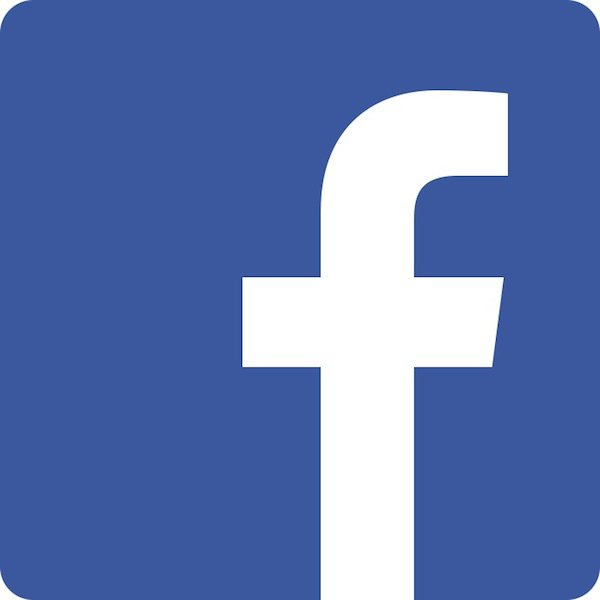
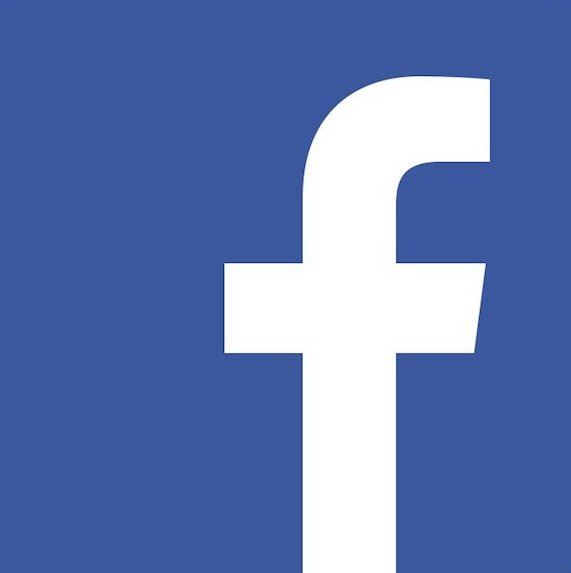
cropped fb img, finished portfolio

diff --git a/index.html b/index.html
@@ -70,19 +70,19 @@
 
 <div id="portfolio" class="container-fluid blue-color">
     <div class="section">
-        <div class="portfolioWrapper centerDiv">
+        <div class="portfolioWrapper centerDivPortfolio">
             <div class="row">
                 <div class="col-3">
-                    <img class="groshLogo" src="img/grosh.png" alt="Grosh">
+                    <a href="http://groshapp.com" target="_blank"><img class="groshLogo" src="img/grosh.png" alt="Grosh"></a>
                 </div>
                 <div class="col-3">
-                    <img class="ahLogo" src="img/ah.jpg" alt="Alarm Handler">
+                    <a href="http://alarmhandler.com" target="_blank"> <img class="ahLogo" src="img/ah.jpg" alt="Alarm Handler"></a>
                 </div>
-                <div class="col-3">
-                    <img class="swetaliaLogo" src="img/grosh.png" alt="Swetalia">
+                <div class="col-6">
+                    <a href="http://www.swetalia.com" target="_blank"> <img class="swetaliaLogo" src="img/swetalia.png" alt="Swetalia"></a>
                 </div>
                 <div class="col-3 moreProjects">
-                    <p class="text-center">More projcets to come!</p>
+                    <p class="text-center moreProjectsText">More projcets to come!</p>
                 </div>
             </div>
         </div>

diff --git a/index.css b/index.css
@@ -57,11 +57,14 @@ div#contact>.section {
 
 .portfolioWrapper{
     background-color: rgb(232,148,43);
-    max-width: 60%;
+    max-width: 70%;
     max-height: 60%;
     border-radius: 25px;
 }
-
+.centerDivPortfolio{
+    margin-top: 10%;
+    margin-left: 15%;
+}
 .contactLogo{
     max-width:150px;
     max-height:200px;
@@ -93,13 +96,18 @@ div#contact>.section {
 .moreProjects{
     padding: 5%;
 }
+.moreProjectsText {
+    margin: 10px;
+    font-family: Optima;
+    font-size: 26px;
+}
 
 .swetaliaLogo{
 
     border-radius: 25px;
-    max-width:150px;
+    max-width:450px;
     max-height:200px;
-    margin: 5% 20% 5% 5%;
+    margin: 2% 5% 5% 5%;
 }
 
 .homeText{
